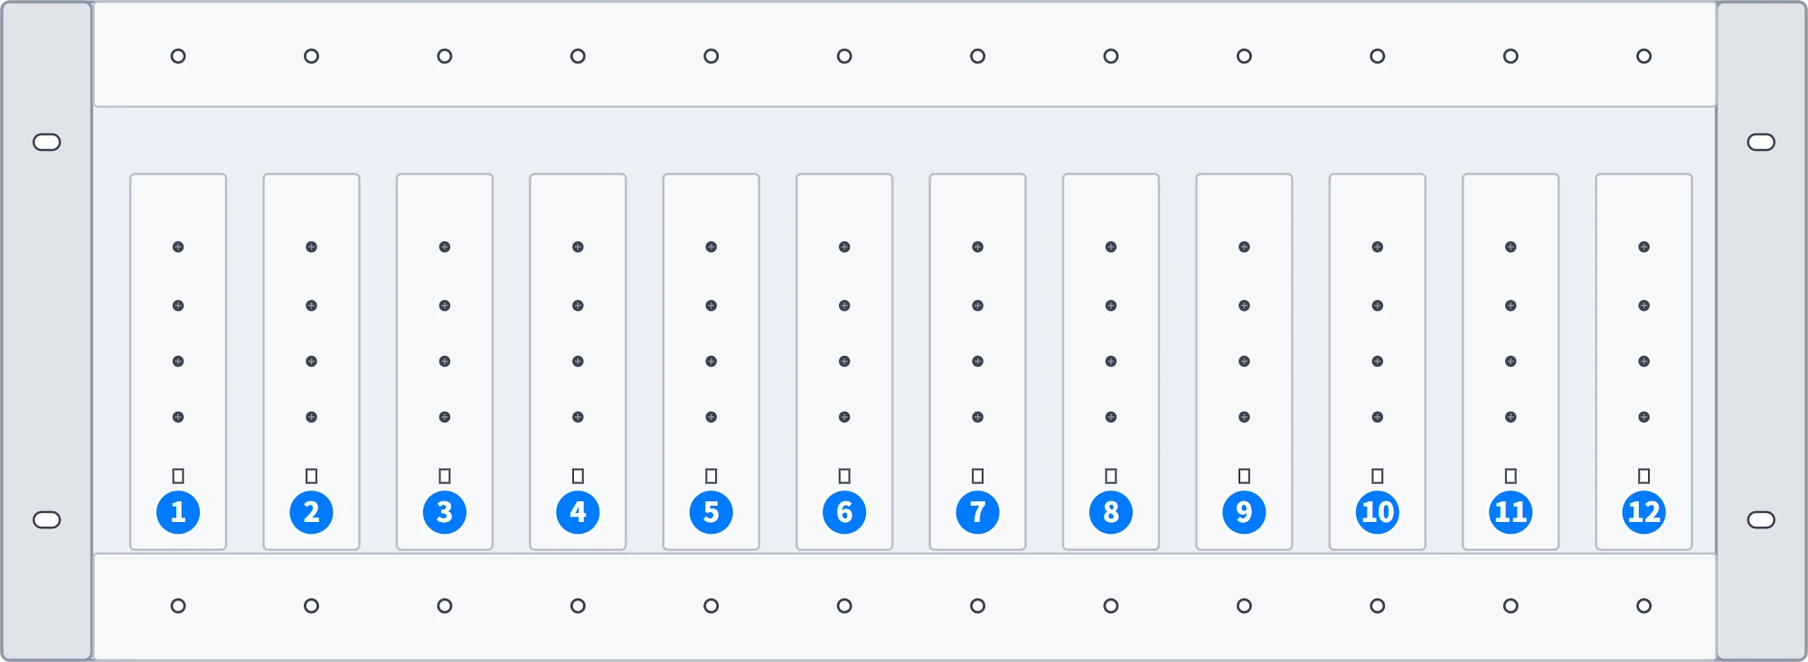
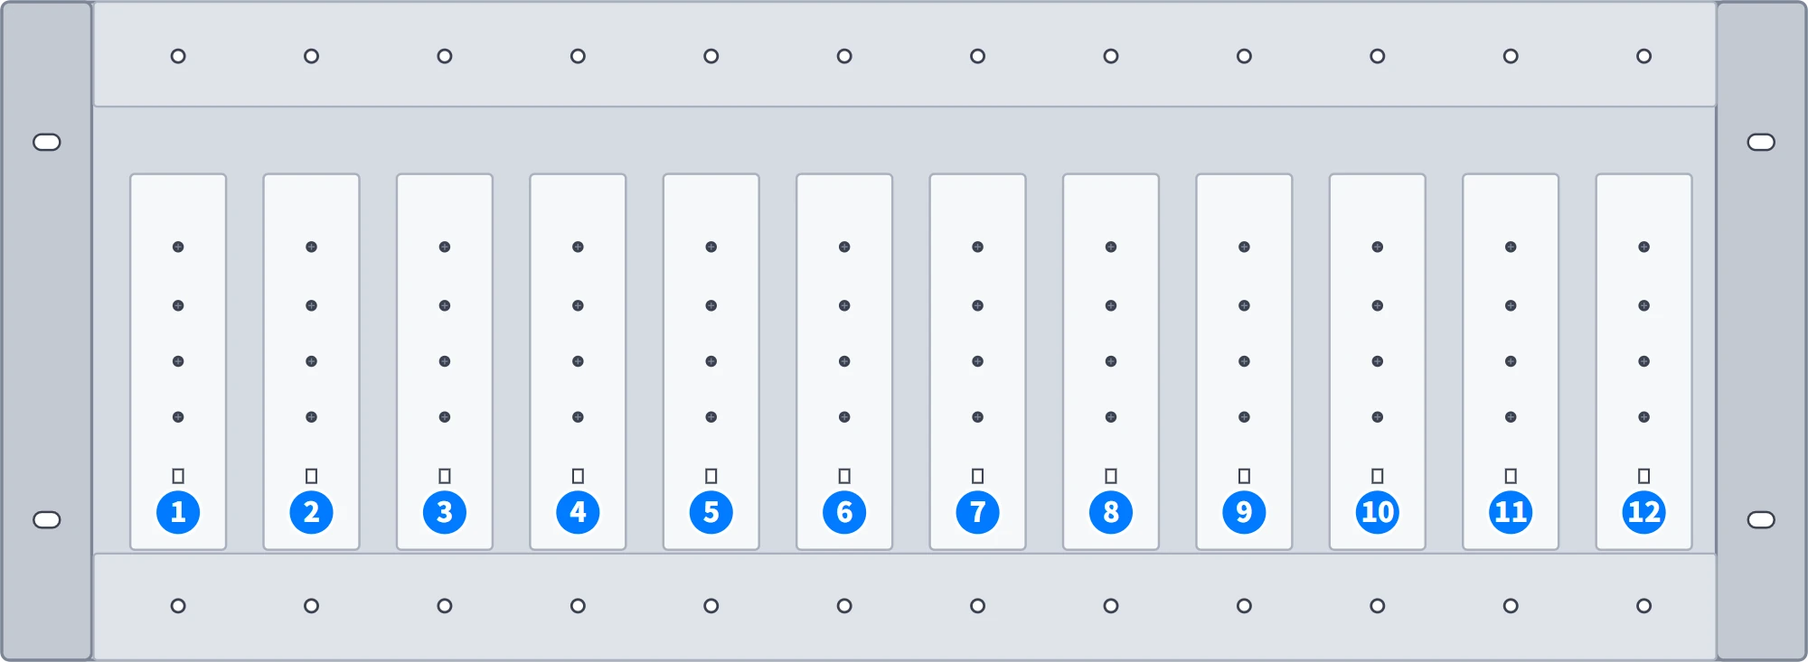
0.134.0: HD-D102U Rack마운트 분배기 칸 밖 영역을 조금 어둡게 (#173)
* 0.134.0: HD-D102U Rack마운트 분배기 칸 밖 영역을 조금 어둡게

* test: 0.134 Rack 그림 색 기준에 맞춰 0.121 테스트 갱신

---------

Changed region(s): [[0.93, 0.0, 1.0, 1.0], [0.0, 0.0, 0.062, 1.0]]

diff --git a/index.html b/index.html
@@ -1,7 +1,7 @@
 <!doctype html>
 <html lang="ko"><head><meta charset="utf-8"><meta name="viewport" content="width=device-width,initial-scale=1"><title>RTCOM 매트릭스 구성기</title><meta name="description" content="RTCOM XDM, SPX, VDM 매트릭스 카드 슬롯 구성기와 알티컴 공개 제품정보"></head><body><div id="rtcom-design" aria-label="RTCOM 매트릭스 구성기">
   <link rel="stylesheet" href="src/styles.css">
-  <header class="rt-top"><a class="rt-brand-lockup" href="./"><span class="rt-brand-mark" aria-hidden="true">▦</span><span><span class="rt-brand">RT<span>COM</span> Configurator</span><span class="rt-brand-sub">XDM · SPX · VDM CARD SLOT DESIGN</span></span></a><nav class="rt-view-tabs" aria-label="화면 전환"><a data-view-tab="configurator" href="#matrix-configurator" aria-current="page">매트릭스 구성기</a><a data-view-tab="products" href="#products">알티컴 제품정보</a></nav><div class="rt-top-links"><a class="rt-portal-link" href="https://seoulav.github.io/AV-Portal/" target="_blank" rel="noopener">AV Portal에서 제품 찾기 <span aria-hidden="true">↗</span><span class="rt-visually-hidden">(새 창)</span></a><div class="rt-meta"><b>AV 시스템 설계 도구</b><br>CATALOG BASED · 0.133</div></div></header>
+  <header class="rt-top"><a class="rt-brand-lockup" href="./"><span class="rt-brand-mark" aria-hidden="true">▦</span><span><span class="rt-brand">RT<span>COM</span> Configurator</span><span class="rt-brand-sub">XDM · SPX · VDM CARD SLOT DESIGN</span></span></a><nav class="rt-view-tabs" aria-label="화면 전환"><a data-view-tab="configurator" href="#matrix-configurator" aria-current="page">매트릭스 구성기</a><a data-view-tab="products" href="#products">알티컴 제품정보</a></nav><div class="rt-top-links"><a class="rt-portal-link" href="https://seoulav.github.io/AV-Portal/" target="_blank" rel="noopener">AV Portal에서 제품 찾기 <span aria-hidden="true">↗</span><span class="rt-visually-hidden">(새 창)</span></a><div class="rt-meta"><b>AV 시스템 설계 도구</b><br>CATALOG BASED · 0.134</div></div></header>
   <section class="rt-configurator-view" aria-label="매트릭스 구성기">
     <div id="matrix-configurator" class="rt-configurator-anchor"><h1 class="rt-visually-hidden" tabindex="-1">매트릭스 구성기 — 프레임을 선택하고 실제 슬롯 위치에 입력·출력 카드를 장착해 구성합니다.</h1></div>
     <div class="rt-workspace"><div class="rt-tools"><button class="rt-button" data-tool="undo" disabled>↶ 실행 취소</button><button class="rt-button" data-tool="redo" disabled>↷ 다시 실행</button><button class="rt-button" data-tool="backup">JSON 백업</button><button class="rt-button" data-tool="import">불러오기</button><button class="rt-button" data-tool="reset">새 구성</button></div><p id="save-status" role="status" aria-live="polite">이 브라우저에 자동 저장됩니다.</p><input id="import-file" type="file" accept=".json,application/json" hidden></div><nav class="rt-nav" aria-label="구성 단계"></nav>

diff --git a/CLAUDE.md b/CLAUDE.md
@@ -50,7 +50,7 @@
 
 - 현재 화면 버전은 `index.html`의 우측 상단 표기와 `README.md`에 함께 기록합니다.
 - 원본 `main`에 기능 묶음을 병합할 때 마이너 버전을 올리고, 같은 커밋에서 `CHANGELOG.md`를 갱신합니다.
-- 구성기 단일 화면 전환은 `0.7.0`, Analog Way 방식 화면 개편은 `0.8.0`, 전송기 자동 연동은 `0.9.0`, HDMI 카드 PSE 쌍 연장은 `0.10.0`, SPX 매뉴얼 사진 슬롯은 `0.11.0`, VDM-256X 추가는 `0.12.0`, VDM 매뉴얼 후면 도면 슬롯은 `0.13.0`, 휴대폰 슬롯 겹침·뒤로가기 수정은 `0.14.0`, VDM 전면 도면은 `0.15.0`, 사진 슬롯 판넬 잘림 수정은 `0.16.0`, 장착 슬롯 번호표 숨김·구성 요약 카드 확대는 `0.17.0`, XDM 판넬 손나사 잘림 수정·VDM 전송기 연동·로고 홈 이동 확인은 `0.18.0`, 알티컴 공개 제품정보(29종) 재게시는 `0.19.0`, 제품정보 상세 표기를 에이앤미디어(antez.co.kr) 방식으로 정리한 것은 `0.20.0`, 데이터 기반 연결 다이어그램 추가는 `0.21.0`, 제품 사양 표를 구분·사양 2단으로 정리한 것은 `0.22.0`, 휴대폰 가로 스크롤(긴 출처 경로) 수정은 `0.23.0`, HD-14U·HD-18U 모델명 정정과 VDM CT102-U·FT102-U 계열 제외는 `0.24.0`, 제조사 카탈로그 원본 연결 다이어그램 적용은 `0.25.0`, 제품 사양 표 디자인(분류 색 점) 다듬기는 `0.26.0`, 새 카탈로그로 나머지 25종 재검증·XDM-CTR100 조합 다이어그램은 `0.27.0`, 연결 다이어그램 가로 스크롤 안내(그러데이션 표시)와 XDM-CTR100 케이블별 최대 전송거리(CI6522 80m) 추가는 `0.28.0`, VDM HOS4-U·HOS4S-UW 카드 설명을 스위칭 방식(일반·심리스)으로 정리하고 XDM-288을 구성기에서 삭제한 것은 `0.29.0`, XDM-CTR100 연결 다이어그램 조합 1을 매트릭스 카드 직결 배선으로 바로잡고 제조사 원본 다이어그램에 출처 캡션·표기 다름 경고를 추가하고 6개 제품과 SPX 다이어그램을 다시 잘라낸 것은 `0.30.0`, VDM 전송기 4종(CT101-U/CR101-U·CT103-U-H/CR103-U·FT101-U/FR101-U·FT103-U-H/FR103-U)에 RS-232 단자 행을 추가하고 이 4종과 CT104-U/CR104-U를 46쪽판과 재대조하고 27종 전체의 카탈로그 쪽 표기를 46쪽판 기준으로 통일한 것은 `0.31.0`, `docs/audit/PRODUCT_DIAGRAM_REVIEW_2026-09-27.md` §6 판단표대로 13개 제품의 검토 필요 항목을 정리해 REVIEW REQUIRED 배지를 없앤 것은 `0.32.0`, 제품정보 화면을 사용자 LED 구성기 계승 글래스 디자인으로 개편한 것(`docs/handoff/PRODUCT_GLASS_REDESIGN_SPEC.md` 6-A: 기반·HD-210U·XDM·VDM·SPX)은 `0.33.0`, 나머지 23종(분배기·일체형·전송기·케이블)에 lead·subtitle·portMap을 채우고 분배기·일체형 신호 흐름을 승인 시안 방식으로 바꾸고 QMS 화면 구성 모드(videoModes)를 추가한 것(6-B)은 `0.34.0`, HD-13U 상세에 전면 EDID 로터리 스위치 위치 표시와 EDID 코드표(edidSwitch, 사용자 제공 매뉴얼 근거)를 추가한 것은 `0.35.0`, HD-104U·HD-108U 모델명 표기를 0.24.0 정정 이전으로 되돌리고(사용자 확인 2026-09-27: 카탈로그 표기는 HD-104U·HD-108U이며 실크만 14U·18U로 변경 예정) HD-210U 전면 설정 스위치(딥 스위치·EDID 로터리) 추가와 신호 흐름 매트릭스 판정 복원을 함께 묶은 것은 `0.36.0`, 매트릭스 구성기 화면을 Analog Way 구조 + LED 글래스 스킨으로 개편하고 블랭크 커버(`placements`의 예약값 `"BLANK"`)로 슬롯 구성을 완성하는 기능을 추가한 것(`docs/handoff/CONFIGURATOR_AW_GLASS_SPEC.md`, 사용자 결정 2026-09-27)은 `0.37.0`, 0.37.0에서 시안과 다르게 남겨 둔 04 전송기 화면을 사용자 검토 후 좌우 분할 구조(01·02와 같은 틀)로 다시 지은 것(`docs/implementation/CONFIGURATOR_AW_GLASS.md` "04 전송기(편차 — 0.38.0에서 해소)")은 `0.38.0`, 제품 상세 "01 한눈에 보기" 위에 큰 사진 띠와 누르면 확대되는 돋보기(라이트박스)를 추가하고 화면에 보이는 제품 사양·주요 기능의 "up to" 표기를 "최대"로 통일하고 제품정보 "확인 사항" 118건을 2건으로 정리(HD-210U 크기 355mm 정정, `docs/audit/PRODUCT_ISSUES_ARCHIVE_2026-09-27.md`)한 것은 `0.39.0`, HD-13U "05 주요 기능"에 오디오 병합(믹스)·추출(디먹스) 동시 사용 안내(매뉴얼 7쪽 근거)를 추가한 것은 `0.40.0`, 분배기(HD-13U·HD-104U·HD-108U·HD-210U) EDID 로터리 코드표에서 자주 쓰는 1·7번을 강조하고 "02 신호 흐름"에 오디오 병합·추출(AUDIO OUT·"추출" 표시)을 추가한 것은 `0.41.0`, 사진 없이 입출력 표 카드로만 보이던 7종(HD-D102U·XDM-CTR100·전송기 5종)의 단자 지도를 HD-13U처럼 실제 제품 사진 기준으로 바꾸고 `portMap`이 송신기·수신기 사진 여러 장을 받게 한 것은 `0.42.0`, HDS-21U·HDS-42MU에 EDID 로터리(edidSwitch)를 추가하고 오디오 병합 설명을 "HDMI OUTPUT에 실리는 오디오" 기준으로 정정하고 분배기·선택기 필터를 HDMI 출력 개수 순으로 정렬하고 XDM-CTR100 "02 신호 흐름" 케이블 최대 전송거리 표기를 다이어그램 하단 한쪽으로 모은 것은 `0.43.0`, 분배기·선택기 필터 정렬을 분배기(Splitter)가 먼저 나오고 셀렉터(Switcher)가 나중에 나오도록(같은 종류 안에서는 HDMI 출력 개수 순) 바꾼 것은 `0.44.0`, 사용자 제공 매뉴얼 3권으로 벽부형 XDM-CT103·CT103-U-H/CR103-U·FT103-U-H/FR103-U의 단자 지도·사양·EDID 표를 보완하고 단자 지도에 세로 괄호·표시 폭·안내 줄을 추가한 것은 `0.45.0`, XDM-CTR100 PSE 제품 안내서와 XDM-CTR100 매뉴얼 Ver.1.4로 CTR100 단자 역할(HDMI IN·OUT, 5핀 오디오 출력, 상태 LED)·딥 스위치 설정·PSE 크기·전원을 보완한 것은 `0.46.0`, 옛 PR #22에만 있던 사용자 결정(XDM-CTR100과 XDM-CTR100 PSE를 별도 제품으로 분리해 28종, QMS-88UX 쿼드 뷰 출력 9·10번 사용법, 모델명 줄바꿈 방지)을 현재 main 기준으로 다시 옮기고 HD-13U 오디오 병합·추출을 선택 방식으로 정정해 07 오디오 설정 카드를 추가하고 모든 제품의 단자 지도 번호를 HDMI 입력 → 출력 → 오디오 → … → 전원(마지막) 순으로 통일한 것은 `0.47.0`, QMS-88UX 출력 9·10번 멀티뷰의 12가지 레이아웃·입력 그룹·출력 옵션을 사용자 제공 매뉴얼 20~23쪽 근거로 "주요 기능"에 적은 것은 `0.48.0`, HDS-21U·HDS-42MU 오디오 병합·추출을 딥 스위치 1번 선택 방식으로 정정하고 07 오디오 설정 카드를 추가하고 사용자 제공 매뉴얼 Ver.1.0으로 Priority·분배 기능 딥 스위치를 보완하고 제품 사진 팝업을 사용자 LED 계산기 "05 프로세서" 방식(사진 탭·원형 돋보기)으로 바꾼 것은 `0.49.0`, QMS-88UX "02 신호 흐름"에서 멀티뷰 출력 9·10번을 매트릭스 출력과 분리된 별도 갈래(패널·캡션)로 다시 그리고 "05 주요 기능" 멀티뷰 항목을 요약하고 오디오 출력 2개(QD1·QD2)가 선택 가능한 출력임을 반영한 것은 `0.50.0`, QMS-88UX "04 제품 사양"의 조건 칸(부설)을 모두 비우고 LAN(Telnet & Web Browser) 표기를 사양·기능·개요·단자 지도에서 모두 뺀 것은 `0.51.0`, HDS-42MU 크기를 사용자 결정에 따라 매뉴얼 값 232×65×30mm로 바꾸고 제품 상세의 "자료 출처·검토 기록"을 "제조사 자료"로 이름을 바꿔 화면의 출처 표시를 뺀 것은 `0.52.0`, QMS-88UX 오디오 QD1·QD2 설명 정리·"02 신호 흐름" 오디오 추출 점선과 멀티뷰 8입력분할 표현 정리·입출력 단자 표 정렬 통일(TX→구분 없음→RX, 영상→오디오→전송→제어, 입력→출력→양방향)·"제조사 자료"에서 표기 다름·참고 사항도 추가로 뺀 것과 조건 칸의 출처 문구를 지우고 "05 주요 기능"을 한 줄 요약으로 줄인 것(상세는 06·07 카드·사양·단자 지도로 이동)은 `0.53.0`, XDM-CTR100·CTR100 PSE "04 제품 사양"의 딥 스위치 행을 다시 삭제(딥 스위치는 05 주요 기능에서만 안내)하고 전 제품 "05 주요 기능"을 추가로 압축하고 매트릭스 COS/CIS/FIS/FOS 카드와 짝인 전송기 3종(XDM-CTR100·CTR100 PSE·FT101/FR101)에 RS-232+ 패스스루(AMX 등 통합 제어 신호를 매트릭스·전송기 너머로 전달) 안내를 추가하고 "02 신호 흐름"의 케이블 최대 전송거리 표기를 범례 "출력" 항목 오른쪽으로 옮긴 것은 `0.54.0`, 구성기 확인 창을 사이트 글래스 스타일 대화상자로 바꾸고 카드 팝업에 수량 채우기와 같은 방향 슬롯 이동(끌어 옮기기·팝업 이동)을 추가하고 XDM 세로 슬롯 카드를 180도 돌리고 2U 이상만 정면·후면 버튼(그보다 작으면 정면 사진과 포트 연결면을 함께 표시)으로 하고 구성기 작업 단계 표기를 한글로 바꾸고 Delete 키 카드 빼기와 XDM RS-232+(CIS·COS·FIS·FOS 카드와 짝 전송기) 표기를 더한 것은 `0.55.0`, 전 제품 "05 주요 기능" 카탈로그 어투 통일("~ 지원")·"01 한눈에 보기" 위 사진 띠 삭제·"02 신호 흐름"과 "03 단자 지도" 순서 교체 및 영문 표기(Signal Flow·Port Map)·화면 구성 모드 등 06 카드를 05 옆으로 배치·QMS-88UX 06 화면 구성 모드 레이아웃 12종 클릭 미리보기 추가·HDS-21U·HDS-42MU 단자 지도를 정면·후면 선택 버튼 없이 위아래 합성 사진 한 장(번호 1~7, EDID 로터리 6번·전원 7번)으로 바꾼 것은 `0.56.0`, 05 옆으로 옮긴 06 카드가 휴대폰에서 01보다 먼저 뜨던 순서 버그를 고치고(rt-pg-col-mobile-6 클래스 추가) 15개 제품 "05 주요 기능"의 "~할 수 있다." 표현 24곳을 명사형으로 정리한 것은 `0.57.0`, HDS-21U·HDS-42MU 단자 지도에 MODE 딥 스위치 번호(7번)를 추가하고 07 오디오 설정 카드를 딥 스위치 그림(번호별 OFF·ON) 카드인 07 딥 스위치 설정으로 바꾸고(1번 오디오 병합·추출, 2번 Priority, 42MU만 3번 분배) 04 제품 사양의 딥 스위치 행과 05 주요 기능의 긴 설명을 이 카드로 옮기고 매트릭스 제품(QMS-44UX·QMS-88UX·HDS-42MU) "03 Signal Flow"를 입력이 한 점으로 모이는 모양 대신 크로스포인트(출력마다 입력 선택 예시)로 다시 그리고 HDS-42MU 정면 사진의 잘못 인쇄된 실크(MODE·EDID)를 사진 안에서 서로 바꾼 것은 `0.58.0`, EDID 로터리 태그 잘림·06 EDID 카드 배치·긴 코드표 좌우 분할을 고치고 EDID 설정 카드에 기본값·자주 쓰는 코드를 파란 16단 로터리 그림(화살표가 코드를 가리킴)으로 보여주고 HDS-21U·HDS-42MU(3·9번)·FT103-U-H/FR103-U(3·6번)에 자주 쓰는 코드 강조를 더하고 EDID 코드표 세로 크기를 줄인 것은 `0.59.0`, 04 제품 사양 표 줄 간격을 약 15% 줄이고 03 Signal Flow에서 AUDIO OUT "추출" 표시가 잘리던 그림 너비 계산을 고친 것은 `0.60.0`, HD-13U 07 오디오 설정을 06 EDID 다음 전체 폭으로 옮겨 잘림·번호 뒤집힘을 고치고 EDID 대표 설정과 같은 칸 4개(MODE 로터리 0번 → SET 누름 → OUT 1 LED 깜빡임·깜빡이지 않음)를 넣고 HD-210U에 매뉴얼 Ver.1.2 근거 07 딥 스위치 설정 카드(1번 오디오 병합, 2번 DDC)를 추가한 것은 `0.61.0`, 딥 스위치 카드가 있는 HD-210U·HDS-21U·HDS-42MU의 05 주요 기능에서 스위치 번호 참조를 지우고 HD-210U(5줄)·HD-13U(3줄) 05 주요 기능을 기능 이름만 남겨 정리하고 HDS-21U·HDS-42MU 딥 스위치 칸을 ON → OFF 순서로 바꾼 것은 `0.62.0`, QMS-44UX·QMS-88UX "06 화면 구성 모드" 카드가 05 옆 좁은 칸에 들어가면서 모드 카드 설명·레이아웃 칩이 카드 밖으로 넘치던 문제를 edidSwitch와 같은 기준(항상 전체 폭 아래)으로 고친 것은 `0.63.0`, SPX-TX/RX 전송기를 29번째 제품으로 추가(매뉴얼 Ver.2.0: 사양·단자 지도·딥 스위치 조합)하고 XDM-FT101/FR101에 매뉴얼 Ver.1.3 근거 EDID·오디오 로터리 카드(전체 8칸 그림)를 넣고 SPX 안내·범례의 HDBaseT 표기를 CATx로 바로잡고 OBUX-1C에 매뉴얼 Ver.2.2 근거 Tx Mode 딥 스위치 카드(1번 오디오, 2·3·4번 EDID 조합)를 넣고 전 제품 05 주요 기능의 "~한다/~다." 문장을 "~ 지원"·명사형으로 통일한 것은 `0.64.0`, OBHD-2C에 매뉴얼 KV01 근거 06 EDID 설정(MODE 로터리 0~D 전체 14칸 그림·코드표)을 추가하고 XDM-CT103/CR103 04 제품 사양의 전원(어댑터) 중복 행(CT103·CR103 각각 있던 동일 값)을 공통 행 하나로 합친 것은 `0.65.0`, XDM-CTR100·XDM-CTR100 PSE에 매뉴얼 Ver.1.4 근거 06 딥 스위치 설정(1·2번 TX/RX 모드 조합, 3번 전송 거리)을 추가하고 두 제품이 별도 페이지로 나뉜 뒤에도 남아 있던 04 제품 사양의 "공통"·자기 모델명 반복 표기를 정리하고 04 사양 "지원 케이블"을 "권장 케이블"로 바꾸고 분배기 4종(HD-13U·HD-104U·HD-108U·HD-210U) 단자 지도를 앞면·뒷면 합성 사진 한 장으로 바꿔 정면 로터리(·SET·MODE)에도 번호를 붙인 것은 `0.66.0`, QMS-88UX 06 화면 구성 모드 QUAD 레이아웃 목록에 매뉴얼 22~23쪽 Output Option 2·3 근거로 "8분할(비율무시)"을 13번째 항목으로 추가하고 분배기 4종(HD-13U·HD-104U·HD-108U·HD-210U) 05 주요 기능에 다단 증폭(캐스케이드 연결) 최대 3단 지원을 추가한 것은 `0.67.0`, XDM-FT101/FR101 단자 지도에 정면 MODE 로터리·S/P 번호를 추가하고 HD-D102U 05 주요 기능을 명사형으로 전면 재작성하고 HDS-21U·HDS-42MU "Audio Extraction"과 HD-210U EDID "Nothing" 표기를 통일하고 HDS-21U 딥 스위치 3번(분배)이 매뉴얼에 없는 기능이었음을 사용자 제공 매뉴얼로 확인해 삭제한 것은 `0.68.0`, HDS-21U·HDS-42MU 06 EDID 설정 안내 문장에서 "10번=A, 11번=B"처럼 10진수를 다시 설명하던 괄호를 완전히 지운 것은 `0.69.0`, 구성기 "섀시"를 "프레임"으로 통일하고 카드 팝업에 수량·순서대로 장착 버튼을 넣고 02 프레임 선택에 "함께 보면 좋은 제품"을 추가하고 빈 슬롯 공패널색을 통일하고 OBHD-2C EDID 로터리 번호를 매뉴얼 Ver.2.1 기준으로 정정하고 HD-D102U "스마트 EDID" 문구를 알기 쉽게 풀어 쓰고 HD-13U·XDM-CTR100 PSE "인증: KC 인증" 행을 삭제하고 HD-D102U 04 사양표를 HD-13U와 같은 구성으로 정리한 것은 `0.70.0`, OBHD-2C 04 제품 사양의 크기·무게·HDMI 규격을 사용자 결정에 따라 매뉴얼 Ver.2.1 값(128×89×25mm·0.36kg·HDMI 1.3)으로 바꾼 것은 `0.71.0`, OBHD-2C·OBUX-1C 04 제품 사양의 입력단자·출력단자(HDMI(female) 등 표기) 행을 삭제하고 전 제품(16종)의 mm/kg 옆 인치·lbs 병기를 지운 것은 `0.72.0`, XDM-PSU 전원 장치를 반영해 BOM의 임시 "전원 공급 장비"를 XDM-PSU(16칸당 1대)·XDM-POH(CTR100 Tx 1대당 1개)·XDM-PHX(COS100 1장당 1개)로 나누고 XDM-PSU를 30번째 제품으로 추가하고, HDS-21U·OBUX-1C 송신기·수신기 고해상도 실물 사진을 반영하고, CT103-U-H/CR103-U 04 제품 사양을 요약 형태로 정리한 것은 `0.73.0`, QMS-44UX 전면·후면 사진을 사용자가 직접 촬영한 고화질 사진으로 바꾸고 03 단자 지도 좌표를 재보정하고 새 사진에서 확인된 DOWNLOAD(Mini-USB) 포트를 추가한 것은 `0.74.0`, HD-108U 전면·후면 사진을 제조사에서 입수한 고화질 사진으로 바꾸고 03 단자 지도와 06 EDID 설정 로터리 스위치 좌표를 재보정한 것은 `0.75.0`, HDS-42MU 전면·후면 사진을 고화질로 바꾸고 단자 지도·EDID 좌표를 재보정한 것은 `0.76.0`, HD-13U·SPX-M810 전면·후면 사진을 고해상도로 바꾸고 HD-13U 단자 지도·EDID 좌표와 SPX-M810 구성기 카드 슬롯 좌표를 재측정한 것은 `0.77.0`, 사용자가 제공한 HD-104U 고해상도 전면·후면 사진(긴 변 약 2000px)으로 기존 저해상도 이미지를 교체하고 단자 지도·EDID 로터리 스위치 좌표를 새 사진 기준으로 다시 측정한 것은 `0.78.0`, 제품 상세에 등록된 제조사 카탈로그·매뉴얼 PDF만 "제품 목록" 옆 버튼(새 탭 보기·내려받기)으로 보여 주는 구조를 추가한 것은 `0.79.0`, 매트릭스 카드 상세 정보 버튼과 XDM·SPX·VDM 카드 26종 사양을 등록한 것은 `0.80.0`, 로컬 작업 환경(`DEVICE_WORKFLOW.md`, `.gitattributes`, `.claude/settings.json`)과 `input_doc` 자료 자동 분류(`.claude/skills/input-doc`, `scripts/input_doc.py`)를 추가한 것은 `0.81.0`, 제조사 자료 입출력 단자 표에서 방향("입력"·"출력"·"입출력")·수량(숫자) 칸이 좁은 화면에서 줄바꿈되던 문제를 30개 제품 전수 조사로 찾아 고친 것은 `0.82.0`, 제목에 송신기·수신기가 들어간 제품 10종의 라벨을 색으로 구분한 것은 `0.83.0`, input_doc 첫 정리(매뉴얼 20권·사양서 1장)로 VDM HOS4-U 카드 사양을 등록하고 CIS4-U·COS4-U·QOS4S-U를 매뉴얼 KV07 값으로 보완하고 input_doc 반영 장부(`docs/evidence/input-doc-ledger.json`)와 파일별 반영 표시(`input_doc/STATUS.md`)를 추가하고 검증된 PR의 병합·배포를 Claude가 이어서 하도록 규칙을 바꾼 것은 `0.84.0`, 카탈로그·매뉴얼 충돌 정리(`docs/audit/CATALOG_MANUAL_CONFLICTS_2026-09-28.md`) 결정대로 VDM -U 카드에 매뉴얼 해상도 행·SOS4 오디오 포트를 더하고 QMS-88UX 멀티뷰에 8분할(16:9 비율)을 추가한 것은 `0.85.0`, 카탈로그·매뉴얼 충돌 항목을 사용자 결정("새로준 자료 기준으로")에 따라 매뉴얼 값으로 통일한 것(HD-104U 전원 1A, XDM 전송기 3840x2160, VDM 광 카드 10km·-U 카드 4096×2160·HOS4S-UW 1920×1080)은 `0.86.0`, RT컴 제공 고해상도 실물 사진으로 XDM-CTR100·XDM-FT101·XDM-FR101·XDM-CT103 제품 사진·목록 카드·구성기 04 전송기 썸네일을 교체하고 CTR100·FT101·CT103 단자 지도를 새 사진으로 다시 합성하고 XDM-FR101 수신기 뒷면 단자 지도를 추가한 것은 `0.87.0`, 사용자 결정("1번")으로 input_doc 매뉴얼 17개를 공개 폴더에 올려 16개 제품 상세에 매뉴얼 PDF 버튼을 켠 것은 `0.88.0`, 사용자 확인("ctr100과 pse는 단자는 동일해")에 따라 XDM-CTR100·XDM-CTR100 PSE 단자 지도를 같은 합성 사진(앞면 PSE 제품 안내서 사진 + 뒷면 RT컴 CTR100 사진)으로 바꾼 것은 `0.89.0`, QMS-88UX 06 화면 구성 모드의 DUAL 카드("듀얼 모드" 한 마디뿐)를 매뉴얼 KV.04 20~21쪽 근거로 출력 9·10번 멀티뷰 설정의 2분할(PBP)·PIP 레이아웃 3종으로 채운 것은 `0.90.0`, XDM-CTR100 PSE 정면 사진을 사용자가 재확인("1번 맞아"·"적용시켜줘")한 원본 PNG에서 정확한 픽셀 경계로 다시 잘라 646×396으로 다시 저장한 것은 `0.91.0`, SPX-TX/SPX-RX 단자 지도 사진의 검은 배경을 흰색으로 바꾸고(사용자 요청) 전송기 6개 제품 사양의 ft(피트) 표기를 일괄 삭제한 것은 `0.92.0`, 전송기 9종 04 제품 사양 조건 칸의 "모델A·모델B 공통" 표기 55곳을 일괄 삭제하고 XDM-PSU에 "03 Signal Flow"(POH 입력 경로·PHX 출력 경로, 주황 전원 선) 그림을 추가한 것은 `0.93.0`, XDM-CTR100·XDM-CTR100 PSE 04 제품 사양의 최대 전송거리 3행을 1행으로 합치고 권장 케이블 행을 지우고 PSE 목록 썸네일을 정면 사진으로 바꾼 것은 `0.94.0`, 전체 카탈로그 46쪽판을 공용 파일(`rtcom-catalog-2026.pdf`) 하나로 공개해 29개 제품 상세의 카탈로그 PDF 버튼이 제품 쪽(`#page=N`)에서 열리고 제품 목록에 전체 카탈로그 버튼을 둔 것(사용자 결정 2026-09-28 "전체 카탈로그 공개해도 돼")은 `0.95.0`, QMS-88UX 06 화면 구성 모드의 QUAD·DUAL 설명 문장을 짧게 줄이고 매뉴얼 쪽 번호를 화면에 안 보이는 `page` 항목으로 옮기고 QMS-44UX QUAD 설명도 두 줄로 나눠 줄인 것(사용자 요청 "QMS-44, 88 모두 글이 너무 많아 좀 더 요약해줘")은 `0.96.0`, 전체 카탈로그 46쪽판에서 제품마다 해당 쪽만 뽑은 제품별 카탈로그 PDF 29개(`<제품id>-catalog.pdf`, XDM은 전송기 쪽을 뺀 4~9쪽, SPX-TX/RX는 16쪽)를 만들어 제품 상세 카탈로그 버튼에 연결한 것(사용자 결정 2026-09-28 "제품별로 잘라 공개")은 `0.97.0`, XDM-PSU "03 Signal Flow"를 제조사 연결도처럼 매트릭스 프레임(CIS100·COS100)·XDM-PSU(POH·PHX)·XDM-CTR100 Tx/Rx 장비 그림으로 다시 그리고 케이블을 따라 신호·전원이 흐르는 애니메이션을 넣은 것(사용자 요청 2026-09-28)은 `0.98.0`, 그 그림의 XDM-COS100을 포트마다 RJ45+피닉스 5핀으로 고쳐 PHX 2핀 전원선이 1번 포트 피닉스 단자에 꽂히게 하고(사용자 확인 "COS PHNIX픽에 전원연결") XDM-PSU Signal Flow에만 "크게 보기" 확대 창(100~300%)을 넣은 것은 `0.99.0`, QMS-88UX "8분할(16:9 비율)" 미리보기가 매뉴얼(KV.04 23쪽)처럼 위·아래 여백을 짙은 막대로 보여주게 고친 것(사용자 지적 "8분할시 비율유지는 안되는거 같은")은 `0.100.0`, 구성기 카드 팝업 "카드별 수량" 스테퍼가 다 채운 뒤 사라지던 버그를 고친 것은 `0.101.0`, OBHD-2C 단자 지도 사진 3장의 검은 배경을 흰색으로 바꾼 것(사용자 요청 2026-09-28 "OBHD-2C 이미지 너가 블랙을 뺄수 있을까?")은 `0.102.0`, XDM-CTR100과 동등 사양인 XDM-CT103/CR103의 "권장 케이블"을 "CAT6a, CAT7"에서 "CAT6A S/FTP 이상(UTP 사용 불가)"으로 정정하고 XDM-CIS100·COS100 카드 소개 문구도 맞춘 것은 `0.103.0`, XDM-CTR100 PSE 크기 표기를 사용자 제공 스펙표 근거로 "107.4[127.4]×88×30.1mm"(본체[브래킷 포함])로 QMS-88UX와 같은 표기 관례로 바꾼 것은 `0.104.0`, XDM-PSU 머리 아이콘을 전원(번개) 모양으로 바꾸고 02 Port Map 앞면·뒷면을 03 Signal Flow와 같은 평면 그림(`scripts/tools/draw_xdm_psu_panels.cjs`, 제조사 도면 배치)으로 다시 만든 것(사용자 요청 2026-09-28)은 `0.105.0`, XDM-PSU 03 Signal Flow의 COS100 전원선 길이·배치를 조정하고 확대 창 범례 누락을 고친 것은 `0.106.0`, OBHD-2C 사진 3장에서 원본부터 깨져 있던 실크 글자(송신기 PWR의 R·EDID S/W의 D 두 개, 수신기 AUDIO의 D)를 같은 사진의 온전한 글자로 복원한 것은 `0.107.0`, HD-13U 제품 상세 카탈로그 PDF 버튼을 새 탭 대신 화면 안 팝업(iframe)으로 여는 샘플을 적용하고(사용자 요청 2026-09-28 "카달로그는 팝업형태 보이면 어때? 1장짜리라서 파일다운받아서 다시 열기 불편해", "샘플로 HD-13U만 적용해줘"), 카드 선택 팝업의 "순서대로 장착"·"닫기" 버튼을 "장착" 하나로 합치고 "다른 출력 슬롯으로 이동" 드롭다운을 없애고(사용자 요청 "내가 직접 드래그 이동이 가능하니까"), XDM-HOS100 "정사분할" 표기를 "최대 4분할"로 통일하고, XDM-CTR100·XDM-CTR100 PSE "최대 전송거리" 조건 문구를 "*S/FTP CAT6A 필수"로 단순화한 것은 `0.108.0`, QMS-88UX "03 Signal Flow" 멀티뷰 출력 9·10번 캡션을 "9·10번 각 4분할 · 합쳐서 최대 8입력"에서 "9·10번 각 4분할 또는 8분할"로 바로잡은 것(사용자 지적)은 `0.109.0`, XDM 연결 전송기 4종(XDM-CTR100·XDM-CTR100 PSE·XDM-CT103/CR103·XDM-FT101/FR101)의 04 제품 사양 최대 해상도 표기를 `4K60Hz`(4:4:4)로 통일하고 XDM-FT101/FR101의 4096x2160 표기를 개요·주요 기능·사양에서 모두 뺀 것(사용자 결정 2026-09-28 "4종 4K60(4:4:4) 형식으로 통일", "4096은 잘 사용하지 않아서 모든 양식에서 빼자")은 `0.110.0`, 실물 사진이 없는 VDM 프레임 전면 7종·후면 8종을 VDM-16X 실물 사진과 같은 검은 몸체의 평면 그림(`scripts/tools/draw_vdm_frames.cjs`, 매뉴얼 KV07 도면 배치)으로 바꾼 것은 `0.111.0`, HD-13U 카탈로그 팝업을 iframe 대신 저장소에 넣은 PDF.js(`src/vendor/pdfjs/`, Apache 2.0)로 그려 PDF 보기 기능이 없는 휴대폰·인앱 브라우저에서도 다운로드 없이 바로 보이게 한 것(사용자 결정 2026-09-28 "PDF.js로 HD-13U 적용해줘")은 `0.112.0`, 구성기 후면(03 카드 슬롯) XDM 6종(후면 사진이 없던 XDM-216 포함)·SPX 5종 프레임을 VDM과 같은 평면 그림(`scripts/tools/draw_xdm_spx_rear_frames.cjs`)으로 바꾼 것은 `0.113.0`, 02 프레임 선택 미리보기 캡션 아래에 "다음 · 카드 슬롯 구성" 버튼을 넣은 것은 `0.114.0`, 카드 선택 팝업 아래 줄의 "슬롯 비우기(Del)"를 왼쪽·"장착"을 오른쪽으로 바꾼 것은 `0.115.0`, 02 프레임 선택 미리보기에 정면·후면을 함께 보여 주고(위아래·좌우, 후면 세로/가로 비율 2 초과인 XDM-144·216, VDM-80X·128X·180X만 정면/후면 버튼) 휴대폰 미리보기 높이 제한을 없앤 것은 `0.116.0`, 03 카드 선택 팝업에서 카드마다 연동 전송기(칩)를 골라 장착과 함께 연결하게 한 것(02·04는 그대로)은 `0.117.0`, 카드 선택 팝업 연동 전송기에 카드 1장당 수량 조절기를 더해 연결 수량과 물량 산출서(BOM)에 반영한 것은 `0.118.0`, VDM-16X 후면(카드가 꽂힌 실물 사진)을 빈 슬롯 평면 그림으로 바꿔 후면 20종을 모두 그림으로 맞춘 것은 `0.119.0`, VDM 카드 사진(HOS4S-UW·CIS4-U·COS4-U)과 VDM 프레임 그림 슬롯 칸을 모두 5.7:1로 맞춰 카드가 칸에 정확히 들어가게 한 것은 `0.120.0`, HD-D102U를 최대 12대 장착하는 19인치 랙 프레임 "HD-D102U Rack마운트"를 사용자 제공 도면으로 31번째 제품(정면·윗면·옆면 그림, HD-D102U와 서로 관련 제품)으로 추가한 것은 `0.121.0`, 그 제품 상세에 사용자 제공 도면 한 장(윗면·정면·옆면·치수)을 다시 그린 "06 도면" 카드(`drawing` 항목)를 추가한 것은 `0.122.0`, 사용자 요청("실도면은하지말고 그래픽이미지만")으로 그 도면 카드와 치수 그림을 지우고 그래픽 이미지(정면·윗면·옆면)만 남긴 것은 `0.123.0`, 제품별 카탈로그 29종은 미리 그린 쪽 그림 팝업, 매뉴얼 17종은 보이는 쪽만 그리는 PDF.js 팝업으로 넓힌 것(사용자 결정 2026-09-28 "전체 제품으로 넓혀서 올리기")은 `0.124.0`, 제품정보 목록에서 매트릭스 시리즈를 XDM → SPX → VDM 순서로 바꿔 XDM이 맨 앞에 나오게 한 것(사용자 요청 "제품정보 XDM이 처음으로 나오게해")은 `0.125.0`, PC 문서 팝업(카탈로그·매뉴얼) 기본 폭을 720px에서 1040px로 넓히고 좌우 가장자리를 마우스로 끌어 폭을 바꾸고(이 브라우저에 기억, 두 번 누르면 기본 폭) "넓게" 버튼으로 화면 폭까지 펼치며 폭이 바뀌면 쪽을 다시 맞추게 한 것(사용자 요청 2026-09-28 "팝업창의 가로폭이 너무 좁아", "마우스로 창 크기 가변가능할까?")은 `0.126.0`, 01 제품군 미리보기 태그 줄 아래에 "프레임 선택" 버튼을 넣고(02 프레임 선택과 같은 방식) 파란 "다음" 버튼의 → 화살표가 파란 배경에 묻히던 색을 버튼 글자색(흰색)으로 고친 것(사용자 요청 2026-09-28 "이것도 버튼 위로 배치하고 오른쪽 화살표도 보이게")은 `0.127.0`, 01 제품군에서 미리보기 "프레임 선택" 버튼과 겹치던 아래 바의 같은 버튼을 숨겨 하나만 남긴 것(사용자 지적 2026-09-29 "버튼이 중복이다")은 `0.128.0`, 구성기 아래 바의 제품군·모델·카테고리 요약 글을 지우고 01 제품군에서는 아래 바 전체를 숨긴 것(사용자 요청 2026-09-29 "이거 삭제해줘")은 `0.129.0`, HD-D102U Rack마운트 정면 그림을 XDM-PSU 그림과 같은 밝은 회색 금속 몸체·흰 모듈 카드 컨셉으로 다시 그리고 윗면·옆면 그림을 지워 정면만 남긴 것(사용자 요청 2026-09-29 "XDM-PSU 그래픽컨셉을 계승해줘", "윗면 옆면은 전부 삭제해줘 정면만 남겨줘")은 `0.130.0`, 화면 명칭에서 "Matrix"를 뺀 "RTCOM Configurator" 표기(사용자 요청 2026-09-29)는 `0.131.0`, 02 프레임 선택 미리보기 그림 높이를 랙 높이(U)에 비례하는 로그 눈금으로 바꿔 가장 작은 VDM-8X·SPX-M810·XDM-12는 작게, 큰 프레임(VDM-80X~180X, XDM-144·216)은 크게 보이게 한 것(사용자 요청 2026-09-29 "VDM-8X는 다소 크다", "SPX, XDM도 비슷한 컨셉으로")은 `0.132.0`, HD-D102U Rack마운트 정면 그림의 칸 번호를 파란 원 배지로 키운 것(사용자 요청 2026-09-29)은 `0.133.0`으로 기록했습니다. 다음 기능 묶음은 `0.134.0`을 목표로 하며, 실제 병합 전에는 검증된 canonical main commit을 확인합니다.
+- 구성기 단일 화면 전환은 `0.7.0`, Analog Way 방식 화면 개편은 `0.8.0`, 전송기 자동 연동은 `0.9.0`, HDMI 카드 PSE 쌍 연장은 `0.10.0`, SPX 매뉴얼 사진 슬롯은 `0.11.0`, VDM-256X 추가는 `0.12.0`, VDM 매뉴얼 후면 도면 슬롯은 `0.13.0`, 휴대폰 슬롯 겹침·뒤로가기 수정은 `0.14.0`, VDM 전면 도면은 `0.15.0`, 사진 슬롯 판넬 잘림 수정은 `0.16.0`, 장착 슬롯 번호표 숨김·구성 요약 카드 확대는 `0.17.0`, XDM 판넬 손나사 잘림 수정·VDM 전송기 연동·로고 홈 이동 확인은 `0.18.0`, 알티컴 공개 제품정보(29종) 재게시는 `0.19.0`, 제품정보 상세 표기를 에이앤미디어(antez.co.kr) 방식으로 정리한 것은 `0.20.0`, 데이터 기반 연결 다이어그램 추가는 `0.21.0`, 제품 사양 표를 구분·사양 2단으로 정리한 것은 `0.22.0`, 휴대폰 가로 스크롤(긴 출처 경로) 수정은 `0.23.0`, HD-14U·HD-18U 모델명 정정과 VDM CT102-U·FT102-U 계열 제외는 `0.24.0`, 제조사 카탈로그 원본 연결 다이어그램 적용은 `0.25.0`, 제품 사양 표 디자인(분류 색 점) 다듬기는 `0.26.0`, 새 카탈로그로 나머지 25종 재검증·XDM-CTR100 조합 다이어그램은 `0.27.0`, 연결 다이어그램 가로 스크롤 안내(그러데이션 표시)와 XDM-CTR100 케이블별 최대 전송거리(CI6522 80m) 추가는 `0.28.0`, VDM HOS4-U·HOS4S-UW 카드 설명을 스위칭 방식(일반·심리스)으로 정리하고 XDM-288을 구성기에서 삭제한 것은 `0.29.0`, XDM-CTR100 연결 다이어그램 조합 1을 매트릭스 카드 직결 배선으로 바로잡고 제조사 원본 다이어그램에 출처 캡션·표기 다름 경고를 추가하고 6개 제품과 SPX 다이어그램을 다시 잘라낸 것은 `0.30.0`, VDM 전송기 4종(CT101-U/CR101-U·CT103-U-H/CR103-U·FT101-U/FR101-U·FT103-U-H/FR103-U)에 RS-232 단자 행을 추가하고 이 4종과 CT104-U/CR104-U를 46쪽판과 재대조하고 27종 전체의 카탈로그 쪽 표기를 46쪽판 기준으로 통일한 것은 `0.31.0`, `docs/audit/PRODUCT_DIAGRAM_REVIEW_2026-09-27.md` §6 판단표대로 13개 제품의 검토 필요 항목을 정리해 REVIEW REQUIRED 배지를 없앤 것은 `0.32.0`, 제품정보 화면을 사용자 LED 구성기 계승 글래스 디자인으로 개편한 것(`docs/handoff/PRODUCT_GLASS_REDESIGN_SPEC.md` 6-A: 기반·HD-210U·XDM·VDM·SPX)은 `0.33.0`, 나머지 23종(분배기·일체형·전송기·케이블)에 lead·subtitle·portMap을 채우고 분배기·일체형 신호 흐름을 승인 시안 방식으로 바꾸고 QMS 화면 구성 모드(videoModes)를 추가한 것(6-B)은 `0.34.0`, HD-13U 상세에 전면 EDID 로터리 스위치 위치 표시와 EDID 코드표(edidSwitch, 사용자 제공 매뉴얼 근거)를 추가한 것은 `0.35.0`, HD-104U·HD-108U 모델명 표기를 0.24.0 정정 이전으로 되돌리고(사용자 확인 2026-09-27: 카탈로그 표기는 HD-104U·HD-108U이며 실크만 14U·18U로 변경 예정) HD-210U 전면 설정 스위치(딥 스위치·EDID 로터리) 추가와 신호 흐름 매트릭스 판정 복원을 함께 묶은 것은 `0.36.0`, 매트릭스 구성기 화면을 Analog Way 구조 + LED 글래스 스킨으로 개편하고 블랭크 커버(`placements`의 예약값 `"BLANK"`)로 슬롯 구성을 완성하는 기능을 추가한 것(`docs/handoff/CONFIGURATOR_AW_GLASS_SPEC.md`, 사용자 결정 2026-09-27)은 `0.37.0`, 0.37.0에서 시안과 다르게 남겨 둔 04 전송기 화면을 사용자 검토 후 좌우 분할 구조(01·02와 같은 틀)로 다시 지은 것(`docs/implementation/CONFIGURATOR_AW_GLASS.md` "04 전송기(편차 — 0.38.0에서 해소)")은 `0.38.0`, 제품 상세 "01 한눈에 보기" 위에 큰 사진 띠와 누르면 확대되는 돋보기(라이트박스)를 추가하고 화면에 보이는 제품 사양·주요 기능의 "up to" 표기를 "최대"로 통일하고 제품정보 "확인 사항" 118건을 2건으로 정리(HD-210U 크기 355mm 정정, `docs/audit/PRODUCT_ISSUES_ARCHIVE_2026-09-27.md`)한 것은 `0.39.0`, HD-13U "05 주요 기능"에 오디오 병합(믹스)·추출(디먹스) 동시 사용 안내(매뉴얼 7쪽 근거)를 추가한 것은 `0.40.0`, 분배기(HD-13U·HD-104U·HD-108U·HD-210U) EDID 로터리 코드표에서 자주 쓰는 1·7번을 강조하고 "02 신호 흐름"에 오디오 병합·추출(AUDIO OUT·"추출" 표시)을 추가한 것은 `0.41.0`, 사진 없이 입출력 표 카드로만 보이던 7종(HD-D102U·XDM-CTR100·전송기 5종)의 단자 지도를 HD-13U처럼 실제 제품 사진 기준으로 바꾸고 `portMap`이 송신기·수신기 사진 여러 장을 받게 한 것은 `0.42.0`, HDS-21U·HDS-42MU에 EDID 로터리(edidSwitch)를 추가하고 오디오 병합 설명을 "HDMI OUTPUT에 실리는 오디오" 기준으로 정정하고 분배기·선택기 필터를 HDMI 출력 개수 순으로 정렬하고 XDM-CTR100 "02 신호 흐름" 케이블 최대 전송거리 표기를 다이어그램 하단 한쪽으로 모은 것은 `0.43.0`, 분배기·선택기 필터 정렬을 분배기(Splitter)가 먼저 나오고 셀렉터(Switcher)가 나중에 나오도록(같은 종류 안에서는 HDMI 출력 개수 순) 바꾼 것은 `0.44.0`, 사용자 제공 매뉴얼 3권으로 벽부형 XDM-CT103·CT103-U-H/CR103-U·FT103-U-H/FR103-U의 단자 지도·사양·EDID 표를 보완하고 단자 지도에 세로 괄호·표시 폭·안내 줄을 추가한 것은 `0.45.0`, XDM-CTR100 PSE 제품 안내서와 XDM-CTR100 매뉴얼 Ver.1.4로 CTR100 단자 역할(HDMI IN·OUT, 5핀 오디오 출력, 상태 LED)·딥 스위치 설정·PSE 크기·전원을 보완한 것은 `0.46.0`, 옛 PR #22에만 있던 사용자 결정(XDM-CTR100과 XDM-CTR100 PSE를 별도 제품으로 분리해 28종, QMS-88UX 쿼드 뷰 출력 9·10번 사용법, 모델명 줄바꿈 방지)을 현재 main 기준으로 다시 옮기고 HD-13U 오디오 병합·추출을 선택 방식으로 정정해 07 오디오 설정 카드를 추가하고 모든 제품의 단자 지도 번호를 HDMI 입력 → 출력 → 오디오 → … → 전원(마지막) 순으로 통일한 것은 `0.47.0`, QMS-88UX 출력 9·10번 멀티뷰의 12가지 레이아웃·입력 그룹·출력 옵션을 사용자 제공 매뉴얼 20~23쪽 근거로 "주요 기능"에 적은 것은 `0.48.0`, HDS-21U·HDS-42MU 오디오 병합·추출을 딥 스위치 1번 선택 방식으로 정정하고 07 오디오 설정 카드를 추가하고 사용자 제공 매뉴얼 Ver.1.0으로 Priority·분배 기능 딥 스위치를 보완하고 제품 사진 팝업을 사용자 LED 계산기 "05 프로세서" 방식(사진 탭·원형 돋보기)으로 바꾼 것은 `0.49.0`, QMS-88UX "02 신호 흐름"에서 멀티뷰 출력 9·10번을 매트릭스 출력과 분리된 별도 갈래(패널·캡션)로 다시 그리고 "05 주요 기능" 멀티뷰 항목을 요약하고 오디오 출력 2개(QD1·QD2)가 선택 가능한 출력임을 반영한 것은 `0.50.0`, QMS-88UX "04 제품 사양"의 조건 칸(부설)을 모두 비우고 LAN(Telnet & Web Browser) 표기를 사양·기능·개요·단자 지도에서 모두 뺀 것은 `0.51.0`, HDS-42MU 크기를 사용자 결정에 따라 매뉴얼 값 232×65×30mm로 바꾸고 제품 상세의 "자료 출처·검토 기록"을 "제조사 자료"로 이름을 바꿔 화면의 출처 표시를 뺀 것은 `0.52.0`, QMS-88UX 오디오 QD1·QD2 설명 정리·"02 신호 흐름" 오디오 추출 점선과 멀티뷰 8입력분할 표현 정리·입출력 단자 표 정렬 통일(TX→구분 없음→RX, 영상→오디오→전송→제어, 입력→출력→양방향)·"제조사 자료"에서 표기 다름·참고 사항도 추가로 뺀 것과 조건 칸의 출처 문구를 지우고 "05 주요 기능"을 한 줄 요약으로 줄인 것(상세는 06·07 카드·사양·단자 지도로 이동)은 `0.53.0`, XDM-CTR100·CTR100 PSE "04 제품 사양"의 딥 스위치 행을 다시 삭제(딥 스위치는 05 주요 기능에서만 안내)하고 전 제품 "05 주요 기능"을 추가로 압축하고 매트릭스 COS/CIS/FIS/FOS 카드와 짝인 전송기 3종(XDM-CTR100·CTR100 PSE·FT101/FR101)에 RS-232+ 패스스루(AMX 등 통합 제어 신호를 매트릭스·전송기 너머로 전달) 안내를 추가하고 "02 신호 흐름"의 케이블 최대 전송거리 표기를 범례 "출력" 항목 오른쪽으로 옮긴 것은 `0.54.0`, 구성기 확인 창을 사이트 글래스 스타일 대화상자로 바꾸고 카드 팝업에 수량 채우기와 같은 방향 슬롯 이동(끌어 옮기기·팝업 이동)을 추가하고 XDM 세로 슬롯 카드를 180도 돌리고 2U 이상만 정면·후면 버튼(그보다 작으면 정면 사진과 포트 연결면을 함께 표시)으로 하고 구성기 작업 단계 표기를 한글로 바꾸고 Delete 키 카드 빼기와 XDM RS-232+(CIS·COS·FIS·FOS 카드와 짝 전송기) 표기를 더한 것은 `0.55.0`, 전 제품 "05 주요 기능" 카탈로그 어투 통일("~ 지원")·"01 한눈에 보기" 위 사진 띠 삭제·"02 신호 흐름"과 "03 단자 지도" 순서 교체 및 영문 표기(Signal Flow·Port Map)·화면 구성 모드 등 06 카드를 05 옆으로 배치·QMS-88UX 06 화면 구성 모드 레이아웃 12종 클릭 미리보기 추가·HDS-21U·HDS-42MU 단자 지도를 정면·후면 선택 버튼 없이 위아래 합성 사진 한 장(번호 1~7, EDID 로터리 6번·전원 7번)으로 바꾼 것은 `0.56.0`, 05 옆으로 옮긴 06 카드가 휴대폰에서 01보다 먼저 뜨던 순서 버그를 고치고(rt-pg-col-mobile-6 클래스 추가) 15개 제품 "05 주요 기능"의 "~할 수 있다." 표현 24곳을 명사형으로 정리한 것은 `0.57.0`, HDS-21U·HDS-42MU 단자 지도에 MODE 딥 스위치 번호(7번)를 추가하고 07 오디오 설정 카드를 딥 스위치 그림(번호별 OFF·ON) 카드인 07 딥 스위치 설정으로 바꾸고(1번 오디오 병합·추출, 2번 Priority, 42MU만 3번 분배) 04 제품 사양의 딥 스위치 행과 05 주요 기능의 긴 설명을 이 카드로 옮기고 매트릭스 제품(QMS-44UX·QMS-88UX·HDS-42MU) "03 Signal Flow"를 입력이 한 점으로 모이는 모양 대신 크로스포인트(출력마다 입력 선택 예시)로 다시 그리고 HDS-42MU 정면 사진의 잘못 인쇄된 실크(MODE·EDID)를 사진 안에서 서로 바꾼 것은 `0.58.0`, EDID 로터리 태그 잘림·06 EDID 카드 배치·긴 코드표 좌우 분할을 고치고 EDID 설정 카드에 기본값·자주 쓰는 코드를 파란 16단 로터리 그림(화살표가 코드를 가리킴)으로 보여주고 HDS-21U·HDS-42MU(3·9번)·FT103-U-H/FR103-U(3·6번)에 자주 쓰는 코드 강조를 더하고 EDID 코드표 세로 크기를 줄인 것은 `0.59.0`, 04 제품 사양 표 줄 간격을 약 15% 줄이고 03 Signal Flow에서 AUDIO OUT "추출" 표시가 잘리던 그림 너비 계산을 고친 것은 `0.60.0`, HD-13U 07 오디오 설정을 06 EDID 다음 전체 폭으로 옮겨 잘림·번호 뒤집힘을 고치고 EDID 대표 설정과 같은 칸 4개(MODE 로터리 0번 → SET 누름 → OUT 1 LED 깜빡임·깜빡이지 않음)를 넣고 HD-210U에 매뉴얼 Ver.1.2 근거 07 딥 스위치 설정 카드(1번 오디오 병합, 2번 DDC)를 추가한 것은 `0.61.0`, 딥 스위치 카드가 있는 HD-210U·HDS-21U·HDS-42MU의 05 주요 기능에서 스위치 번호 참조를 지우고 HD-210U(5줄)·HD-13U(3줄) 05 주요 기능을 기능 이름만 남겨 정리하고 HDS-21U·HDS-42MU 딥 스위치 칸을 ON → OFF 순서로 바꾼 것은 `0.62.0`, QMS-44UX·QMS-88UX "06 화면 구성 모드" 카드가 05 옆 좁은 칸에 들어가면서 모드 카드 설명·레이아웃 칩이 카드 밖으로 넘치던 문제를 edidSwitch와 같은 기준(항상 전체 폭 아래)으로 고친 것은 `0.63.0`, SPX-TX/RX 전송기를 29번째 제품으로 추가(매뉴얼 Ver.2.0: 사양·단자 지도·딥 스위치 조합)하고 XDM-FT101/FR101에 매뉴얼 Ver.1.3 근거 EDID·오디오 로터리 카드(전체 8칸 그림)를 넣고 SPX 안내·범례의 HDBaseT 표기를 CATx로 바로잡고 OBUX-1C에 매뉴얼 Ver.2.2 근거 Tx Mode 딥 스위치 카드(1번 오디오, 2·3·4번 EDID 조합)를 넣고 전 제품 05 주요 기능의 "~한다/~다." 문장을 "~ 지원"·명사형으로 통일한 것은 `0.64.0`, OBHD-2C에 매뉴얼 KV01 근거 06 EDID 설정(MODE 로터리 0~D 전체 14칸 그림·코드표)을 추가하고 XDM-CT103/CR103 04 제품 사양의 전원(어댑터) 중복 행(CT103·CR103 각각 있던 동일 값)을 공통 행 하나로 합친 것은 `0.65.0`, XDM-CTR100·XDM-CTR100 PSE에 매뉴얼 Ver.1.4 근거 06 딥 스위치 설정(1·2번 TX/RX 모드 조합, 3번 전송 거리)을 추가하고 두 제품이 별도 페이지로 나뉜 뒤에도 남아 있던 04 제품 사양의 "공통"·자기 모델명 반복 표기를 정리하고 04 사양 "지원 케이블"을 "권장 케이블"로 바꾸고 분배기 4종(HD-13U·HD-104U·HD-108U·HD-210U) 단자 지도를 앞면·뒷면 합성 사진 한 장으로 바꿔 정면 로터리(·SET·MODE)에도 번호를 붙인 것은 `0.66.0`, QMS-88UX 06 화면 구성 모드 QUAD 레이아웃 목록에 매뉴얼 22~23쪽 Output Option 2·3 근거로 "8분할(비율무시)"을 13번째 항목으로 추가하고 분배기 4종(HD-13U·HD-104U·HD-108U·HD-210U) 05 주요 기능에 다단 증폭(캐스케이드 연결) 최대 3단 지원을 추가한 것은 `0.67.0`, XDM-FT101/FR101 단자 지도에 정면 MODE 로터리·S/P 번호를 추가하고 HD-D102U 05 주요 기능을 명사형으로 전면 재작성하고 HDS-21U·HDS-42MU "Audio Extraction"과 HD-210U EDID "Nothing" 표기를 통일하고 HDS-21U 딥 스위치 3번(분배)이 매뉴얼에 없는 기능이었음을 사용자 제공 매뉴얼로 확인해 삭제한 것은 `0.68.0`, HDS-21U·HDS-42MU 06 EDID 설정 안내 문장에서 "10번=A, 11번=B"처럼 10진수를 다시 설명하던 괄호를 완전히 지운 것은 `0.69.0`, 구성기 "섀시"를 "프레임"으로 통일하고 카드 팝업에 수량·순서대로 장착 버튼을 넣고 02 프레임 선택에 "함께 보면 좋은 제품"을 추가하고 빈 슬롯 공패널색을 통일하고 OBHD-2C EDID 로터리 번호를 매뉴얼 Ver.2.1 기준으로 정정하고 HD-D102U "스마트 EDID" 문구를 알기 쉽게 풀어 쓰고 HD-13U·XDM-CTR100 PSE "인증: KC 인증" 행을 삭제하고 HD-D102U 04 사양표를 HD-13U와 같은 구성으로 정리한 것은 `0.70.0`, OBHD-2C 04 제품 사양의 크기·무게·HDMI 규격을 사용자 결정에 따라 매뉴얼 Ver.2.1 값(128×89×25mm·0.36kg·HDMI 1.3)으로 바꾼 것은 `0.71.0`, OBHD-2C·OBUX-1C 04 제품 사양의 입력단자·출력단자(HDMI(female) 등 표기) 행을 삭제하고 전 제품(16종)의 mm/kg 옆 인치·lbs 병기를 지운 것은 `0.72.0`, XDM-PSU 전원 장치를 반영해 BOM의 임시 "전원 공급 장비"를 XDM-PSU(16칸당 1대)·XDM-POH(CTR100 Tx 1대당 1개)·XDM-PHX(COS100 1장당 1개)로 나누고 XDM-PSU를 30번째 제품으로 추가하고, HDS-21U·OBUX-1C 송신기·수신기 고해상도 실물 사진을 반영하고, CT103-U-H/CR103-U 04 제품 사양을 요약 형태로 정리한 것은 `0.73.0`, QMS-44UX 전면·후면 사진을 사용자가 직접 촬영한 고화질 사진으로 바꾸고 03 단자 지도 좌표를 재보정하고 새 사진에서 확인된 DOWNLOAD(Mini-USB) 포트를 추가한 것은 `0.74.0`, HD-108U 전면·후면 사진을 제조사에서 입수한 고화질 사진으로 바꾸고 03 단자 지도와 06 EDID 설정 로터리 스위치 좌표를 재보정한 것은 `0.75.0`, HDS-42MU 전면·후면 사진을 고화질로 바꾸고 단자 지도·EDID 좌표를 재보정한 것은 `0.76.0`, HD-13U·SPX-M810 전면·후면 사진을 고해상도로 바꾸고 HD-13U 단자 지도·EDID 좌표와 SPX-M810 구성기 카드 슬롯 좌표를 재측정한 것은 `0.77.0`, 사용자가 제공한 HD-104U 고해상도 전면·후면 사진(긴 변 약 2000px)으로 기존 저해상도 이미지를 교체하고 단자 지도·EDID 로터리 스위치 좌표를 새 사진 기준으로 다시 측정한 것은 `0.78.0`, 제품 상세에 등록된 제조사 카탈로그·매뉴얼 PDF만 "제품 목록" 옆 버튼(새 탭 보기·내려받기)으로 보여 주는 구조를 추가한 것은 `0.79.0`, 매트릭스 카드 상세 정보 버튼과 XDM·SPX·VDM 카드 26종 사양을 등록한 것은 `0.80.0`, 로컬 작업 환경(`DEVICE_WORKFLOW.md`, `.gitattributes`, `.claude/settings.json`)과 `input_doc` 자료 자동 분류(`.claude/skills/input-doc`, `scripts/input_doc.py`)를 추가한 것은 `0.81.0`, 제조사 자료 입출력 단자 표에서 방향("입력"·"출력"·"입출력")·수량(숫자) 칸이 좁은 화면에서 줄바꿈되던 문제를 30개 제품 전수 조사로 찾아 고친 것은 `0.82.0`, 제목에 송신기·수신기가 들어간 제품 10종의 라벨을 색으로 구분한 것은 `0.83.0`, input_doc 첫 정리(매뉴얼 20권·사양서 1장)로 VDM HOS4-U 카드 사양을 등록하고 CIS4-U·COS4-U·QOS4S-U를 매뉴얼 KV07 값으로 보완하고 input_doc 반영 장부(`docs/evidence/input-doc-ledger.json`)와 파일별 반영 표시(`input_doc/STATUS.md`)를 추가하고 검증된 PR의 병합·배포를 Claude가 이어서 하도록 규칙을 바꾼 것은 `0.84.0`, 카탈로그·매뉴얼 충돌 정리(`docs/audit/CATALOG_MANUAL_CONFLICTS_2026-09-28.md`) 결정대로 VDM -U 카드에 매뉴얼 해상도 행·SOS4 오디오 포트를 더하고 QMS-88UX 멀티뷰에 8분할(16:9 비율)을 추가한 것은 `0.85.0`, 카탈로그·매뉴얼 충돌 항목을 사용자 결정("새로준 자료 기준으로")에 따라 매뉴얼 값으로 통일한 것(HD-104U 전원 1A, XDM 전송기 3840x2160, VDM 광 카드 10km·-U 카드 4096×2160·HOS4S-UW 1920×1080)은 `0.86.0`, RT컴 제공 고해상도 실물 사진으로 XDM-CTR100·XDM-FT101·XDM-FR101·XDM-CT103 제품 사진·목록 카드·구성기 04 전송기 썸네일을 교체하고 CTR100·FT101·CT103 단자 지도를 새 사진으로 다시 합성하고 XDM-FR101 수신기 뒷면 단자 지도를 추가한 것은 `0.87.0`, 사용자 결정("1번")으로 input_doc 매뉴얼 17개를 공개 폴더에 올려 16개 제품 상세에 매뉴얼 PDF 버튼을 켠 것은 `0.88.0`, 사용자 확인("ctr100과 pse는 단자는 동일해")에 따라 XDM-CTR100·XDM-CTR100 PSE 단자 지도를 같은 합성 사진(앞면 PSE 제품 안내서 사진 + 뒷면 RT컴 CTR100 사진)으로 바꾼 것은 `0.89.0`, QMS-88UX 06 화면 구성 모드의 DUAL 카드("듀얼 모드" 한 마디뿐)를 매뉴얼 KV.04 20~21쪽 근거로 출력 9·10번 멀티뷰 설정의 2분할(PBP)·PIP 레이아웃 3종으로 채운 것은 `0.90.0`, XDM-CTR100 PSE 정면 사진을 사용자가 재확인("1번 맞아"·"적용시켜줘")한 원본 PNG에서 정확한 픽셀 경계로 다시 잘라 646×396으로 다시 저장한 것은 `0.91.0`, SPX-TX/SPX-RX 단자 지도 사진의 검은 배경을 흰색으로 바꾸고(사용자 요청) 전송기 6개 제품 사양의 ft(피트) 표기를 일괄 삭제한 것은 `0.92.0`, 전송기 9종 04 제품 사양 조건 칸의 "모델A·모델B 공통" 표기 55곳을 일괄 삭제하고 XDM-PSU에 "03 Signal Flow"(POH 입력 경로·PHX 출력 경로, 주황 전원 선) 그림을 추가한 것은 `0.93.0`, XDM-CTR100·XDM-CTR100 PSE 04 제품 사양의 최대 전송거리 3행을 1행으로 합치고 권장 케이블 행을 지우고 PSE 목록 썸네일을 정면 사진으로 바꾼 것은 `0.94.0`, 전체 카탈로그 46쪽판을 공용 파일(`rtcom-catalog-2026.pdf`) 하나로 공개해 29개 제품 상세의 카탈로그 PDF 버튼이 제품 쪽(`#page=N`)에서 열리고 제품 목록에 전체 카탈로그 버튼을 둔 것(사용자 결정 2026-09-28 "전체 카탈로그 공개해도 돼")은 `0.95.0`, QMS-88UX 06 화면 구성 모드의 QUAD·DUAL 설명 문장을 짧게 줄이고 매뉴얼 쪽 번호를 화면에 안 보이는 `page` 항목으로 옮기고 QMS-44UX QUAD 설명도 두 줄로 나눠 줄인 것(사용자 요청 "QMS-44, 88 모두 글이 너무 많아 좀 더 요약해줘")은 `0.96.0`, 전체 카탈로그 46쪽판에서 제품마다 해당 쪽만 뽑은 제품별 카탈로그 PDF 29개(`<제품id>-catalog.pdf`, XDM은 전송기 쪽을 뺀 4~9쪽, SPX-TX/RX는 16쪽)를 만들어 제품 상세 카탈로그 버튼에 연결한 것(사용자 결정 2026-09-28 "제품별로 잘라 공개")은 `0.97.0`, XDM-PSU "03 Signal Flow"를 제조사 연결도처럼 매트릭스 프레임(CIS100·COS100)·XDM-PSU(POH·PHX)·XDM-CTR100 Tx/Rx 장비 그림으로 다시 그리고 케이블을 따라 신호·전원이 흐르는 애니메이션을 넣은 것(사용자 요청 2026-09-28)은 `0.98.0`, 그 그림의 XDM-COS100을 포트마다 RJ45+피닉스 5핀으로 고쳐 PHX 2핀 전원선이 1번 포트 피닉스 단자에 꽂히게 하고(사용자 확인 "COS PHNIX픽에 전원연결") XDM-PSU Signal Flow에만 "크게 보기" 확대 창(100~300%)을 넣은 것은 `0.99.0`, QMS-88UX "8분할(16:9 비율)" 미리보기가 매뉴얼(KV.04 23쪽)처럼 위·아래 여백을 짙은 막대로 보여주게 고친 것(사용자 지적 "8분할시 비율유지는 안되는거 같은")은 `0.100.0`, 구성기 카드 팝업 "카드별 수량" 스테퍼가 다 채운 뒤 사라지던 버그를 고친 것은 `0.101.0`, OBHD-2C 단자 지도 사진 3장의 검은 배경을 흰색으로 바꾼 것(사용자 요청 2026-09-28 "OBHD-2C 이미지 너가 블랙을 뺄수 있을까?")은 `0.102.0`, XDM-CTR100과 동등 사양인 XDM-CT103/CR103의 "권장 케이블"을 "CAT6a, CAT7"에서 "CAT6A S/FTP 이상(UTP 사용 불가)"으로 정정하고 XDM-CIS100·COS100 카드 소개 문구도 맞춘 것은 `0.103.0`, XDM-CTR100 PSE 크기 표기를 사용자 제공 스펙표 근거로 "107.4[127.4]×88×30.1mm"(본체[브래킷 포함])로 QMS-88UX와 같은 표기 관례로 바꾼 것은 `0.104.0`, XDM-PSU 머리 아이콘을 전원(번개) 모양으로 바꾸고 02 Port Map 앞면·뒷면을 03 Signal Flow와 같은 평면 그림(`scripts/tools/draw_xdm_psu_panels.cjs`, 제조사 도면 배치)으로 다시 만든 것(사용자 요청 2026-09-28)은 `0.105.0`, XDM-PSU 03 Signal Flow의 COS100 전원선 길이·배치를 조정하고 확대 창 범례 누락을 고친 것은 `0.106.0`, OBHD-2C 사진 3장에서 원본부터 깨져 있던 실크 글자(송신기 PWR의 R·EDID S/W의 D 두 개, 수신기 AUDIO의 D)를 같은 사진의 온전한 글자로 복원한 것은 `0.107.0`, HD-13U 제품 상세 카탈로그 PDF 버튼을 새 탭 대신 화면 안 팝업(iframe)으로 여는 샘플을 적용하고(사용자 요청 2026-09-28 "카달로그는 팝업형태 보이면 어때? 1장짜리라서 파일다운받아서 다시 열기 불편해", "샘플로 HD-13U만 적용해줘"), 카드 선택 팝업의 "순서대로 장착"·"닫기" 버튼을 "장착" 하나로 합치고 "다른 출력 슬롯으로 이동" 드롭다운을 없애고(사용자 요청 "내가 직접 드래그 이동이 가능하니까"), XDM-HOS100 "정사분할" 표기를 "최대 4분할"로 통일하고, XDM-CTR100·XDM-CTR100 PSE "최대 전송거리" 조건 문구를 "*S/FTP CAT6A 필수"로 단순화한 것은 `0.108.0`, QMS-88UX "03 Signal Flow" 멀티뷰 출력 9·10번 캡션을 "9·10번 각 4분할 · 합쳐서 최대 8입력"에서 "9·10번 각 4분할 또는 8분할"로 바로잡은 것(사용자 지적)은 `0.109.0`, XDM 연결 전송기 4종(XDM-CTR100·XDM-CTR100 PSE·XDM-CT103/CR103·XDM-FT101/FR101)의 04 제품 사양 최대 해상도 표기를 `4K60Hz`(4:4:4)로 통일하고 XDM-FT101/FR101의 4096x2160 표기를 개요·주요 기능·사양에서 모두 뺀 것(사용자 결정 2026-09-28 "4종 4K60(4:4:4) 형식으로 통일", "4096은 잘 사용하지 않아서 모든 양식에서 빼자")은 `0.110.0`, 실물 사진이 없는 VDM 프레임 전면 7종·후면 8종을 VDM-16X 실물 사진과 같은 검은 몸체의 평면 그림(`scripts/tools/draw_vdm_frames.cjs`, 매뉴얼 KV07 도면 배치)으로 바꾼 것은 `0.111.0`, HD-13U 카탈로그 팝업을 iframe 대신 저장소에 넣은 PDF.js(`src/vendor/pdfjs/`, Apache 2.0)로 그려 PDF 보기 기능이 없는 휴대폰·인앱 브라우저에서도 다운로드 없이 바로 보이게 한 것(사용자 결정 2026-09-28 "PDF.js로 HD-13U 적용해줘")은 `0.112.0`, 구성기 후면(03 카드 슬롯) XDM 6종(후면 사진이 없던 XDM-216 포함)·SPX 5종 프레임을 VDM과 같은 평면 그림(`scripts/tools/draw_xdm_spx_rear_frames.cjs`)으로 바꾼 것은 `0.113.0`, 02 프레임 선택 미리보기 캡션 아래에 "다음 · 카드 슬롯 구성" 버튼을 넣은 것은 `0.114.0`, 카드 선택 팝업 아래 줄의 "슬롯 비우기(Del)"를 왼쪽·"장착"을 오른쪽으로 바꾼 것은 `0.115.0`, 02 프레임 선택 미리보기에 정면·후면을 함께 보여 주고(위아래·좌우, 후면 세로/가로 비율 2 초과인 XDM-144·216, VDM-80X·128X·180X만 정면/후면 버튼) 휴대폰 미리보기 높이 제한을 없앤 것은 `0.116.0`, 03 카드 선택 팝업에서 카드마다 연동 전송기(칩)를 골라 장착과 함께 연결하게 한 것(02·04는 그대로)은 `0.117.0`, 카드 선택 팝업 연동 전송기에 카드 1장당 수량 조절기를 더해 연결 수량과 물량 산출서(BOM)에 반영한 것은 `0.118.0`, VDM-16X 후면(카드가 꽂힌 실물 사진)을 빈 슬롯 평면 그림으로 바꿔 후면 20종을 모두 그림으로 맞춘 것은 `0.119.0`, VDM 카드 사진(HOS4S-UW·CIS4-U·COS4-U)과 VDM 프레임 그림 슬롯 칸을 모두 5.7:1로 맞춰 카드가 칸에 정확히 들어가게 한 것은 `0.120.0`, HD-D102U를 최대 12대 장착하는 19인치 랙 프레임 "HD-D102U Rack마운트"를 사용자 제공 도면으로 31번째 제품(정면·윗면·옆면 그림, HD-D102U와 서로 관련 제품)으로 추가한 것은 `0.121.0`, 그 제품 상세에 사용자 제공 도면 한 장(윗면·정면·옆면·치수)을 다시 그린 "06 도면" 카드(`drawing` 항목)를 추가한 것은 `0.122.0`, 사용자 요청("실도면은하지말고 그래픽이미지만")으로 그 도면 카드와 치수 그림을 지우고 그래픽 이미지(정면·윗면·옆면)만 남긴 것은 `0.123.0`, 제품별 카탈로그 29종은 미리 그린 쪽 그림 팝업, 매뉴얼 17종은 보이는 쪽만 그리는 PDF.js 팝업으로 넓힌 것(사용자 결정 2026-09-28 "전체 제품으로 넓혀서 올리기")은 `0.124.0`, 제품정보 목록에서 매트릭스 시리즈를 XDM → SPX → VDM 순서로 바꿔 XDM이 맨 앞에 나오게 한 것(사용자 요청 "제품정보 XDM이 처음으로 나오게해")은 `0.125.0`, PC 문서 팝업(카탈로그·매뉴얼) 기본 폭을 720px에서 1040px로 넓히고 좌우 가장자리를 마우스로 끌어 폭을 바꾸고(이 브라우저에 기억, 두 번 누르면 기본 폭) "넓게" 버튼으로 화면 폭까지 펼치며 폭이 바뀌면 쪽을 다시 맞추게 한 것(사용자 요청 2026-09-28 "팝업창의 가로폭이 너무 좁아", "마우스로 창 크기 가변가능할까?")은 `0.126.0`, 01 제품군 미리보기 태그 줄 아래에 "프레임 선택" 버튼을 넣고(02 프레임 선택과 같은 방식) 파란 "다음" 버튼의 → 화살표가 파란 배경에 묻히던 색을 버튼 글자색(흰색)으로 고친 것(사용자 요청 2026-09-28 "이것도 버튼 위로 배치하고 오른쪽 화살표도 보이게")은 `0.127.0`, 01 제품군에서 미리보기 "프레임 선택" 버튼과 겹치던 아래 바의 같은 버튼을 숨겨 하나만 남긴 것(사용자 지적 2026-09-29 "버튼이 중복이다")은 `0.128.0`, 구성기 아래 바의 제품군·모델·카테고리 요약 글을 지우고 01 제품군에서는 아래 바 전체를 숨긴 것(사용자 요청 2026-09-29 "이거 삭제해줘")은 `0.129.0`, HD-D102U Rack마운트 정면 그림을 XDM-PSU 그림과 같은 밝은 회색 금속 몸체·흰 모듈 카드 컨셉으로 다시 그리고 윗면·옆면 그림을 지워 정면만 남긴 것(사용자 요청 2026-09-29 "XDM-PSU 그래픽컨셉을 계승해줘", "윗면 옆면은 전부 삭제해줘 정면만 남겨줘")은 `0.130.0`, 화면 명칭에서 "Matrix"를 뺀 "RTCOM Configurator" 표기(사용자 요청 2026-09-29)는 `0.131.0`, 02 프레임 선택 미리보기 그림 높이를 랙 높이(U)에 비례하는 로그 눈금으로 바꿔 가장 작은 VDM-8X·SPX-M810·XDM-12는 작게, 큰 프레임(VDM-80X~180X, XDM-144·216)은 크게 보이게 한 것(사용자 요청 2026-09-29 "VDM-8X는 다소 크다", "SPX, XDM도 비슷한 컨셉으로")은 `0.132.0`, HD-D102U Rack마운트 정면 그림의 칸 번호를 파란 원 배지로 키운 것(사용자 요청 2026-09-29)은 `0.133.0`, HD-D102U Rack마운트 정면 그림에서 분배기 칸 밖 영역을 조금 어둡게 한 것(사용자 요청 2026-09-29)은 `0.134.0`으로 기록했습니다. 다음 기능 묶음은 `0.135.0`을 목표로 하며, 실제 병합 전에는 검증된 canonical main commit을 확인합니다.
 - 모든 작업은 구현 문서, QA 문서 또는 감사 문서에 근거와 결과를 남깁니다.
 - 사용자에게 받을 자료·남은 할 일은 `docs/handoff/OPEN_ITEMS.md`에 모아 둡니다. 새 세션은 이 목록을 먼저 확인하고, 처리한 항목은 지웁니다.
 

diff --git a/CHANGELOG.md b/CHANGELOG.md
@@ -72,6 +72,10 @@
 
 - **0.90.0 배포 기록**: `docs/qa/DEPLOYMENT_0.90_2026-09-28.md`(PR #85 → main 병합, 배포 run 64, 공개 파일 242/242 일치, 비공개 파일 6개 404)
 
+## 0.134.0
+
+- **HD-D102U Rack마운트 정면 그림에서 분배기 칸을 뺀 영역(몸체·랙 귀·위아래 레일)을 조금 어둡게**(사용자 요청 2026-09-29 "분배기를 제외한 영역 색상 조금만 어둡게해줘"): 몸체 #eceff4→#d5dae2, 랙 귀 #dfe3ea→#c3c9d3, 위아래 레일은 분배기 칸과 같던 밝은 색에서 #dfe3ea로 분리했습니다. 분배기 12칸(#f7f8fa)·파란 번호 배지·배치·좌표는 그대로입니다. 그림은 `scripts/tools/draw_hd_d102u_rack.cjs`로 다시 만들었습니다. rollback: 이 PR 되돌리기.
+
 ## 0.133.0
 
 - **HD-D102U Rack마운트 정면 그림의 장착 칸 번호(1~12)를 파란 원 배지 + 흰 굵은 숫자로 키움**(사용자 요청 2026-09-29 "분배기 장착 번호가 너무 작다 다른 색상으로 표기해서 눈의띄게 해줘"): 기존 작은 남색 글자를 지름 약 12mm 파란 원(사이트 강조색 #007aff)에 흰 숫자로 바꿨습니다. 칸·구멍 배치와 02 Port Map 번호 좌표는 그대로입니다. 그림은 `scripts/tools/draw_hd_d102u_rack.cjs`로 다시 만들었습니다. rollback: 이 PR 되돌리기.

diff --git a/README.md b/README.md
@@ -1,6 +1,6 @@
 # RTCOM Configurator
 
-**현재 버전: 0.133** · XDM·SPX·VDM 매트릭스의 프레임과 카드 슬롯을 구성하는 도구(Analog Way 구조 + LED 글래스 스킨 + 블랭크 커버, 04 전송기도 좌우 분할)와 알티컴 공개 제품정보(31종, 글래스 디자인·연결 다이어그램)를 제공합니다.
+**현재 버전: 0.134** · XDM·SPX·VDM 매트릭스의 프레임과 카드 슬롯을 구성하는 도구(Analog Way 구조 + LED 글래스 스킨 + 블랭크 커버, 04 전송기도 좌우 분할)와 알티컴 공개 제품정보(31종, 글래스 디자인·연결 다이어그램)를 제공합니다.
 
 프레임을 고르고 실제 슬롯 위치에 입력·출력 카드를 장착한 뒤, 전송기와 BOM을 검토하고 JSON·CSV·인쇄 보고서로 내보냅니다. 0.19부터 알티컴 브로셔 수준 제품정보의 원본은 이 저장소(`data/products/`)이며, 머리글의 "알티컴 제품정보" 탭에서 봅니다. 비공개 AV Portal은 이 공개 데이터를 읽기만 합니다([인계 문서](docs/handoff/AV_PORTAL_RTCOM_PRODUCT_DATA.md)). 실제 슬롯·설치 허용표와 전원·케이블 조건은 확정 전이며, 모든 내보내기는 `UNVERIFIED_DRAFT`로 표시합니다.
 
